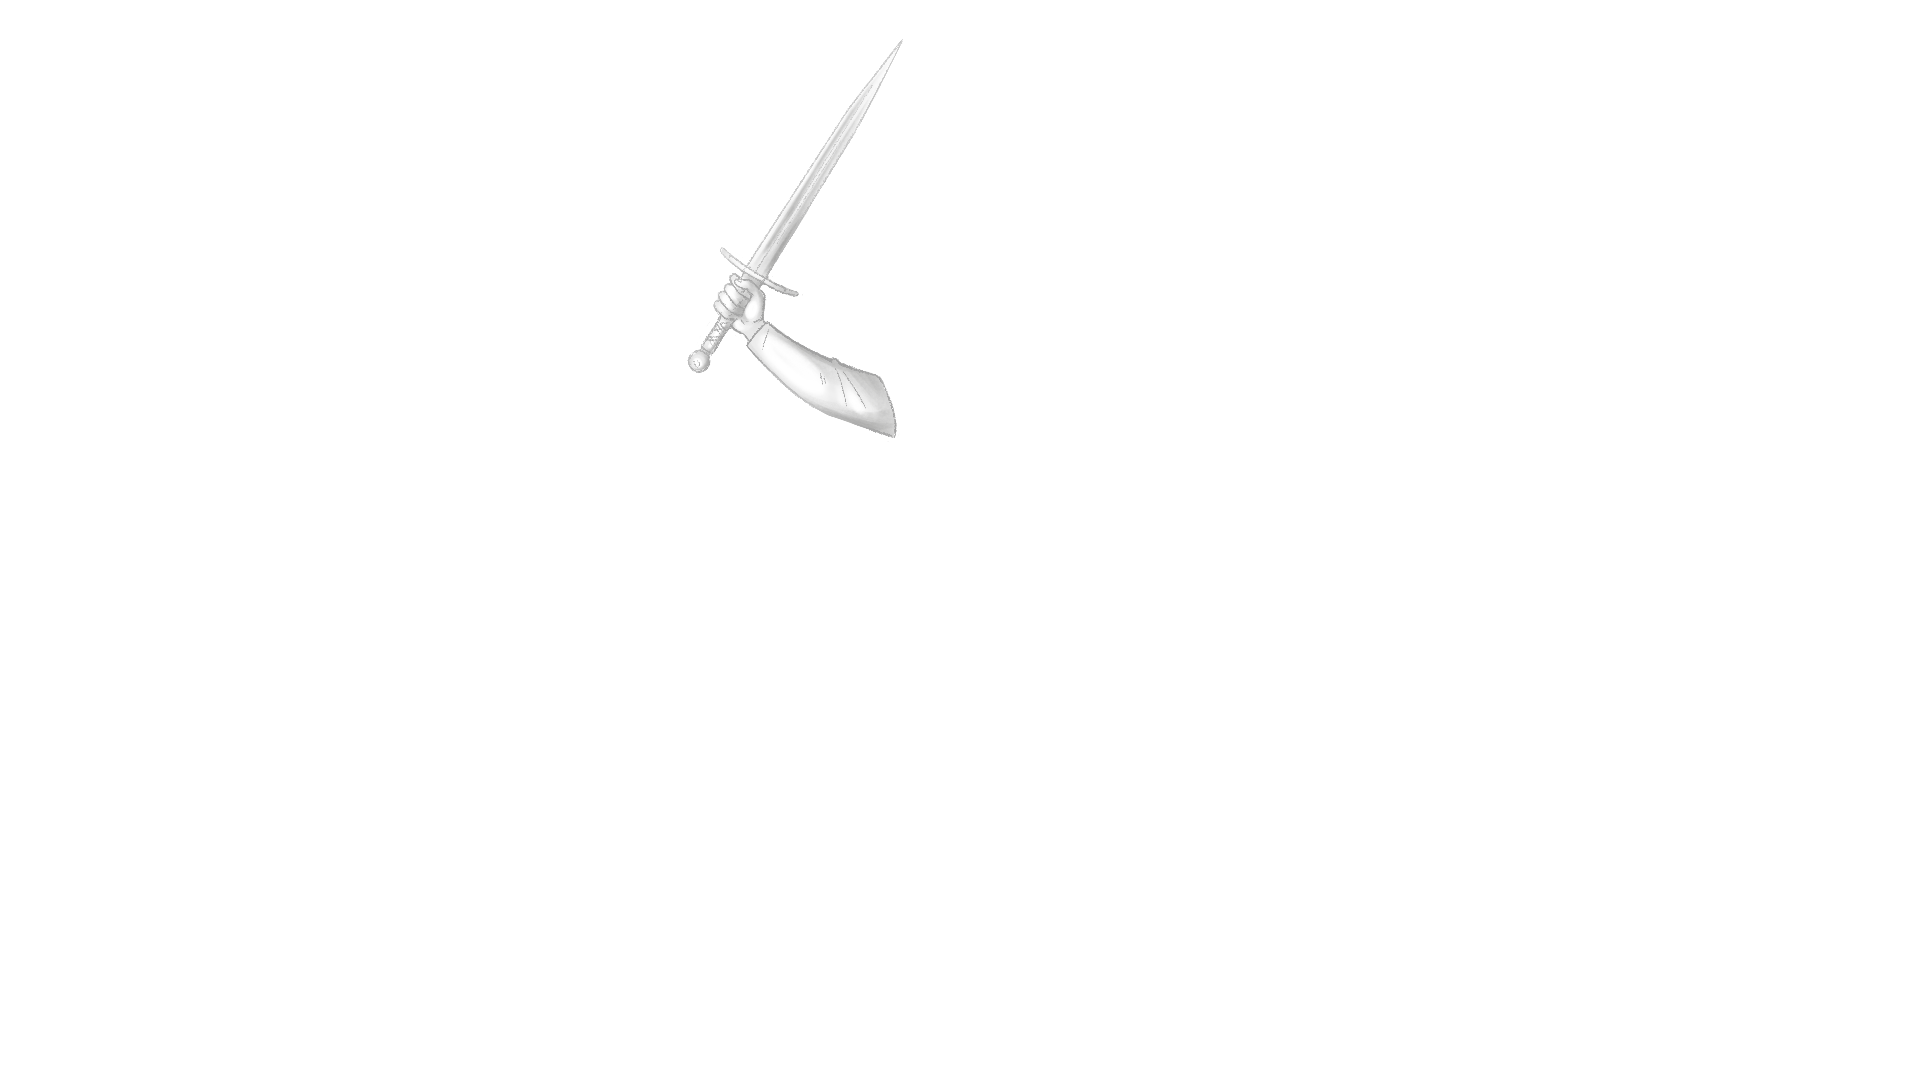
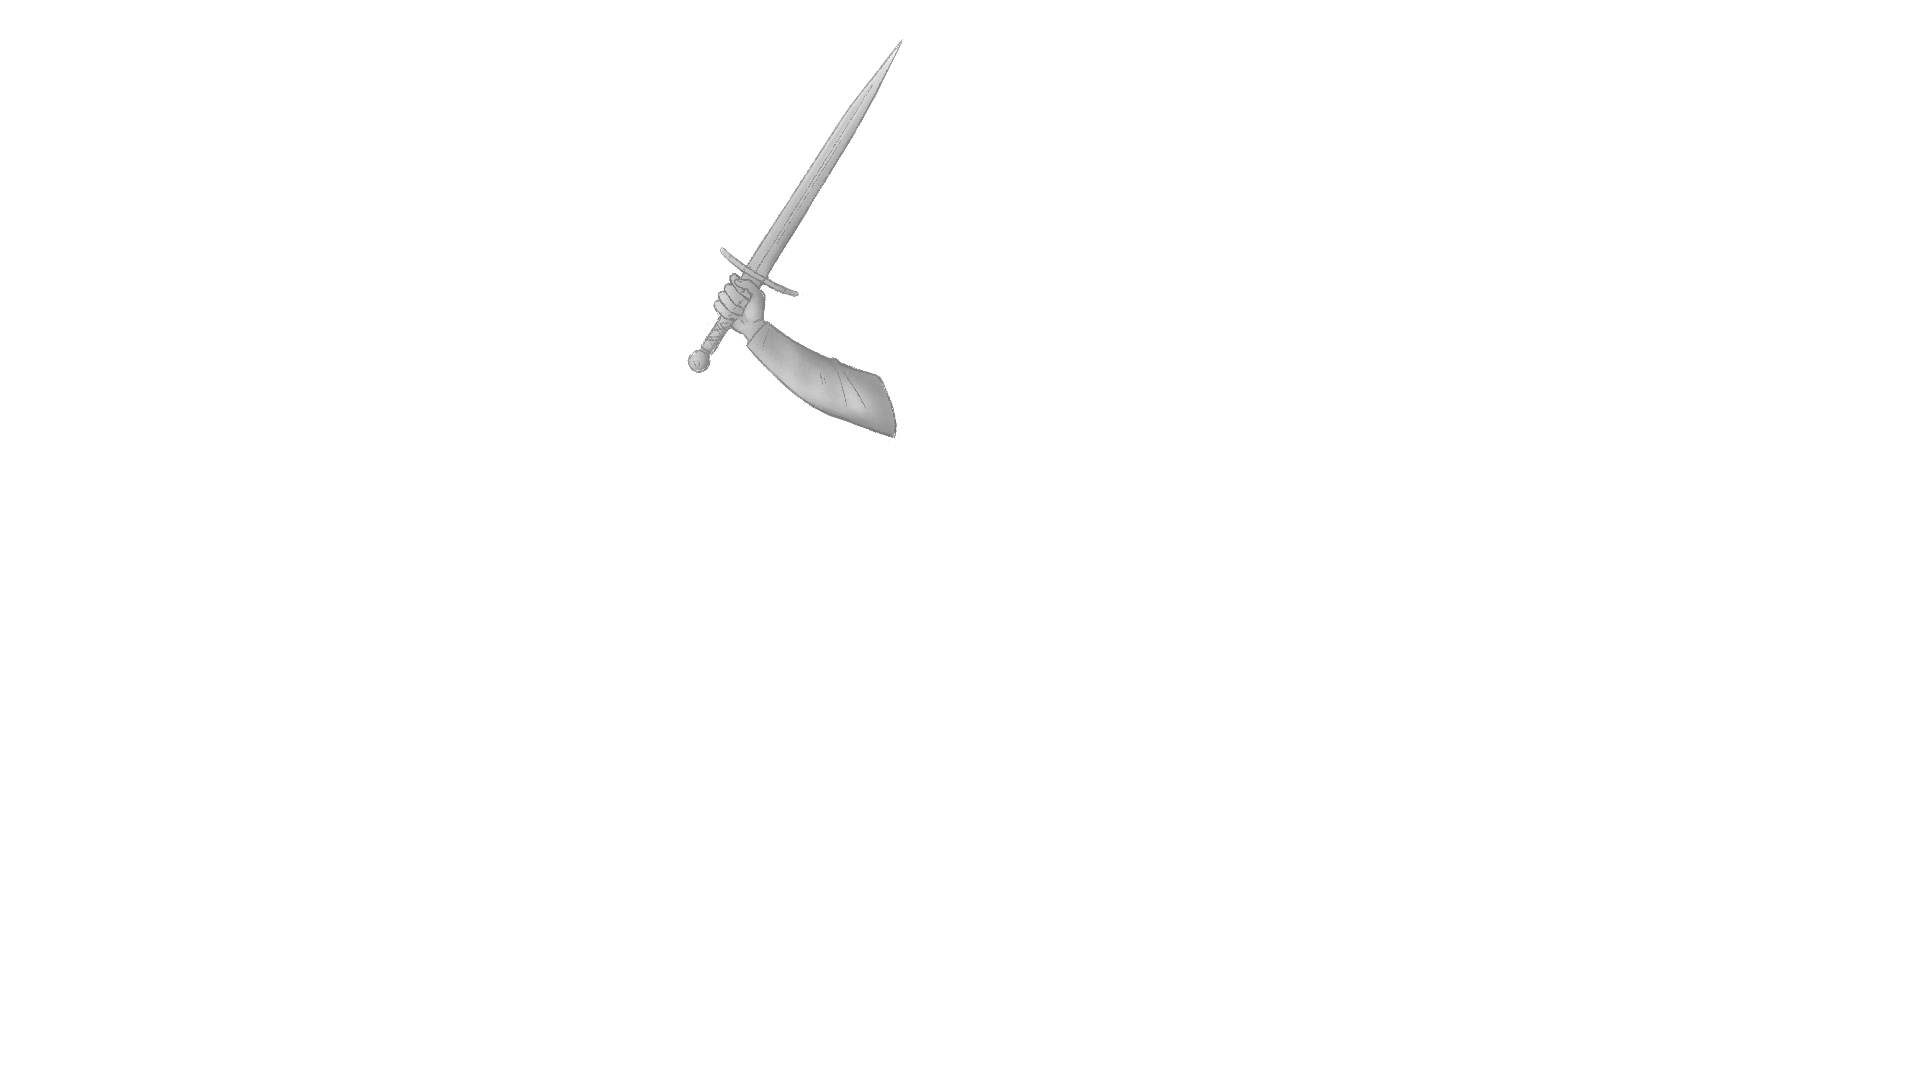
replace arms assets

Changed region(s): [[0.3438, 0.2139, 0.4688, 0.3972], [0.4062, 0.0611, 0.4688, 0.2139]]

diff --git a/src/App.vue b/src/App.vue
@@ -48,7 +48,7 @@ function onLanguageSelected(lang) {
 
     <div class="debug debug-versions" v-if="dialogs && Object.keys(dialogs).length && texts && Object.keys(texts).length" >    
       Numéro de versions<br>
-      Build STAGING du 24/10/2025 à 15h<br>
+      Build STAGING du 24/10/2025 à 16h20<br>
       Interface : {{ texts[Object.keys(texts).length-1]["texte-FR"] }} <br>
       Dialogues : {{ dialogs[Object.keys(dialogs).length-1]["texte-FR"] }} <br>
       
